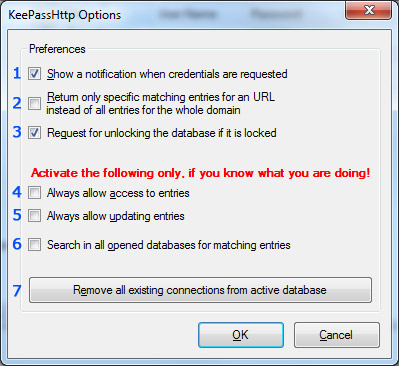
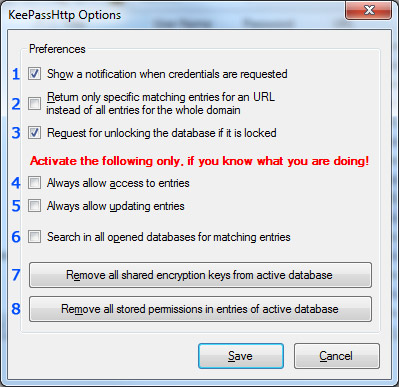
added feature request for removing permissions from entries

diff --git a/KeePassHttp/OptionsForm.cs b/KeePassHttp/OptionsForm.cs
@@ -102,7 +102,72 @@ namespace KeePassHttp
                 }
                 else
                 {
-                    MessageBox.Show("The active database does not contain an entry of KeePassHttp Settings.", "KeePassHttp Settings not available!", MessageBoxButtons.OK, MessageBoxIcon.Error);
+                    MessageBox.Show("The active database does not contain an entry of KeePassHttp Settings.", "KeePassHttp Settings not available!", MessageBoxButtons.OK, MessageBoxIcon.Information);
+                }
+            }
+            else
+            {
+                MessageBox.Show("The active database is locked!\nPlease unlock the selected database or choose another one which is unlocked.", "Database locked!", MessageBoxButtons.OK, MessageBoxIcon.Error);
+            }
+        }
+
+        private void removePermissionsButton_Click(object sender, EventArgs e)
+        {
+            if (KeePass.Program.MainForm.DocumentManager.ActiveDatabase.IsOpen)
+            {
+                PwDatabase db = KeePass.Program.MainForm.DocumentManager.ActiveDatabase;
+
+                uint counter = 0;
+                var entries = db.RootGroup.GetEntries(true);
+
+                if (entries.Count() > 999)
+                {
+                    MessageBox.Show(
+                        String.Format("{0} entries detected!\nSearching and removing permissions could take some while.\n\nWe will inform you when the process has been finished.", entries.Count().ToString()),
+                        String.Format("{0} entries detected", entries.Count().ToString()),
+                        MessageBoxButtons.OK,
+                        MessageBoxIcon.Information
+                    );
+                }
+
+                foreach (var entry in entries) {
+                    foreach (var str in entry.Strings)
+                    {
+                        if (str.Key == KeePassHttpExt.KEEPASSHTTP_NAME)
+                        {
+                            PwObjectList<PwEntry> m_vHistory = entry.History.CloneDeep();
+                            entry.History = m_vHistory;
+                            entry.CreateBackup(null);
+
+                            entry.Strings.Remove(str.Key);
+
+                            entry.Touch(true);
+
+                            counter += 1;
+
+                            break;
+                        }
+                    }
+                }
+
+                if (counter > 0)
+                {
+                    KeePass.Program.MainForm.UpdateUI(false, null, true, db.RootGroup, true, null, true);
+                    MessageBox.Show(
+                        String.Format("Successfully removed permissions from {0} entr{1}.", counter.ToString(), counter == 1 ? "y" : "ies"),
+                        String.Format("Removed permissions from {0} entr{1}", counter.ToString(), counter == 1 ? "y" : "ies"),
+                        MessageBoxButtons.OK,
+                        MessageBoxIcon.Information
+                    );
+                }
+                else
+                {
+                    MessageBox.Show(
+                        "The active database does not contain an entry with permissions.",
+                        "No entry with permissions found!",
+                        MessageBoxButtons.OK,
+                        MessageBoxIcon.Information
+                    );
                 }
             }
             else

diff --git a/KeePassHttp/KeePassHttp.cs b/KeePassHttp/KeePassHttp.cs
@@ -36,7 +36,7 @@ namespace KeePassHttp
                                                 };
 
         private const int DEFAULT_NOTIFICATION_TIME = 5000;
-        private const string KEEPASSHTTP_NAME = "KeePassHttp Settings";
+        public const string KEEPASSHTTP_NAME = "KeePassHttp Settings";
         private const string KEEPASSHTTP_GROUP_NAME = "KeePassHttp Passwords";
         public const string ASSOCIATE_KEY_PREFIX = "AES Key: ";
         private IPluginHost host;

diff --git a/KeePassHttp/Properties/AssemblyInfo.cs b/KeePassHttp/Properties/AssemblyInfo.cs
@@ -33,4 +33,4 @@ using System.Runtime.InteropServices;
 // by using the '*' as shown below:
 // [assembly: AssemblyVersion("1.0.*")]
 [assembly: AssemblyVersion("2.21.0.0")]
-[assembly: AssemblyFileVersion("1.1.5.0")]
+[assembly: AssemblyFileVersion("1.2.0.0")]

diff --git a/README.md b/README.md
@@ -54,7 +54,8 @@ The options dialog will appear:
 5. KeePassHttp no longer asks for permission to update an entry, it always allows updating them.
 6. Searching for entries is no longer restricted to the current active database in KeePass but is extended to all opened databases!
   - __Important:__ Even if another database is not connected with the inquirer, KeePassHttp will search and retrieve entries of all opened databases if the active one is connected to KeePassHttp!
-7. Removes all stored connection-keys. Every inquirer has to reauthenticate.
+7. Removes all shared encryption-keys which are stored in the currently selected database. Every inquirer has to reauthenticate.
+8. Removes all stored permissions in the entries of the currently selected database.
 
 ## Troubleshooting
 
